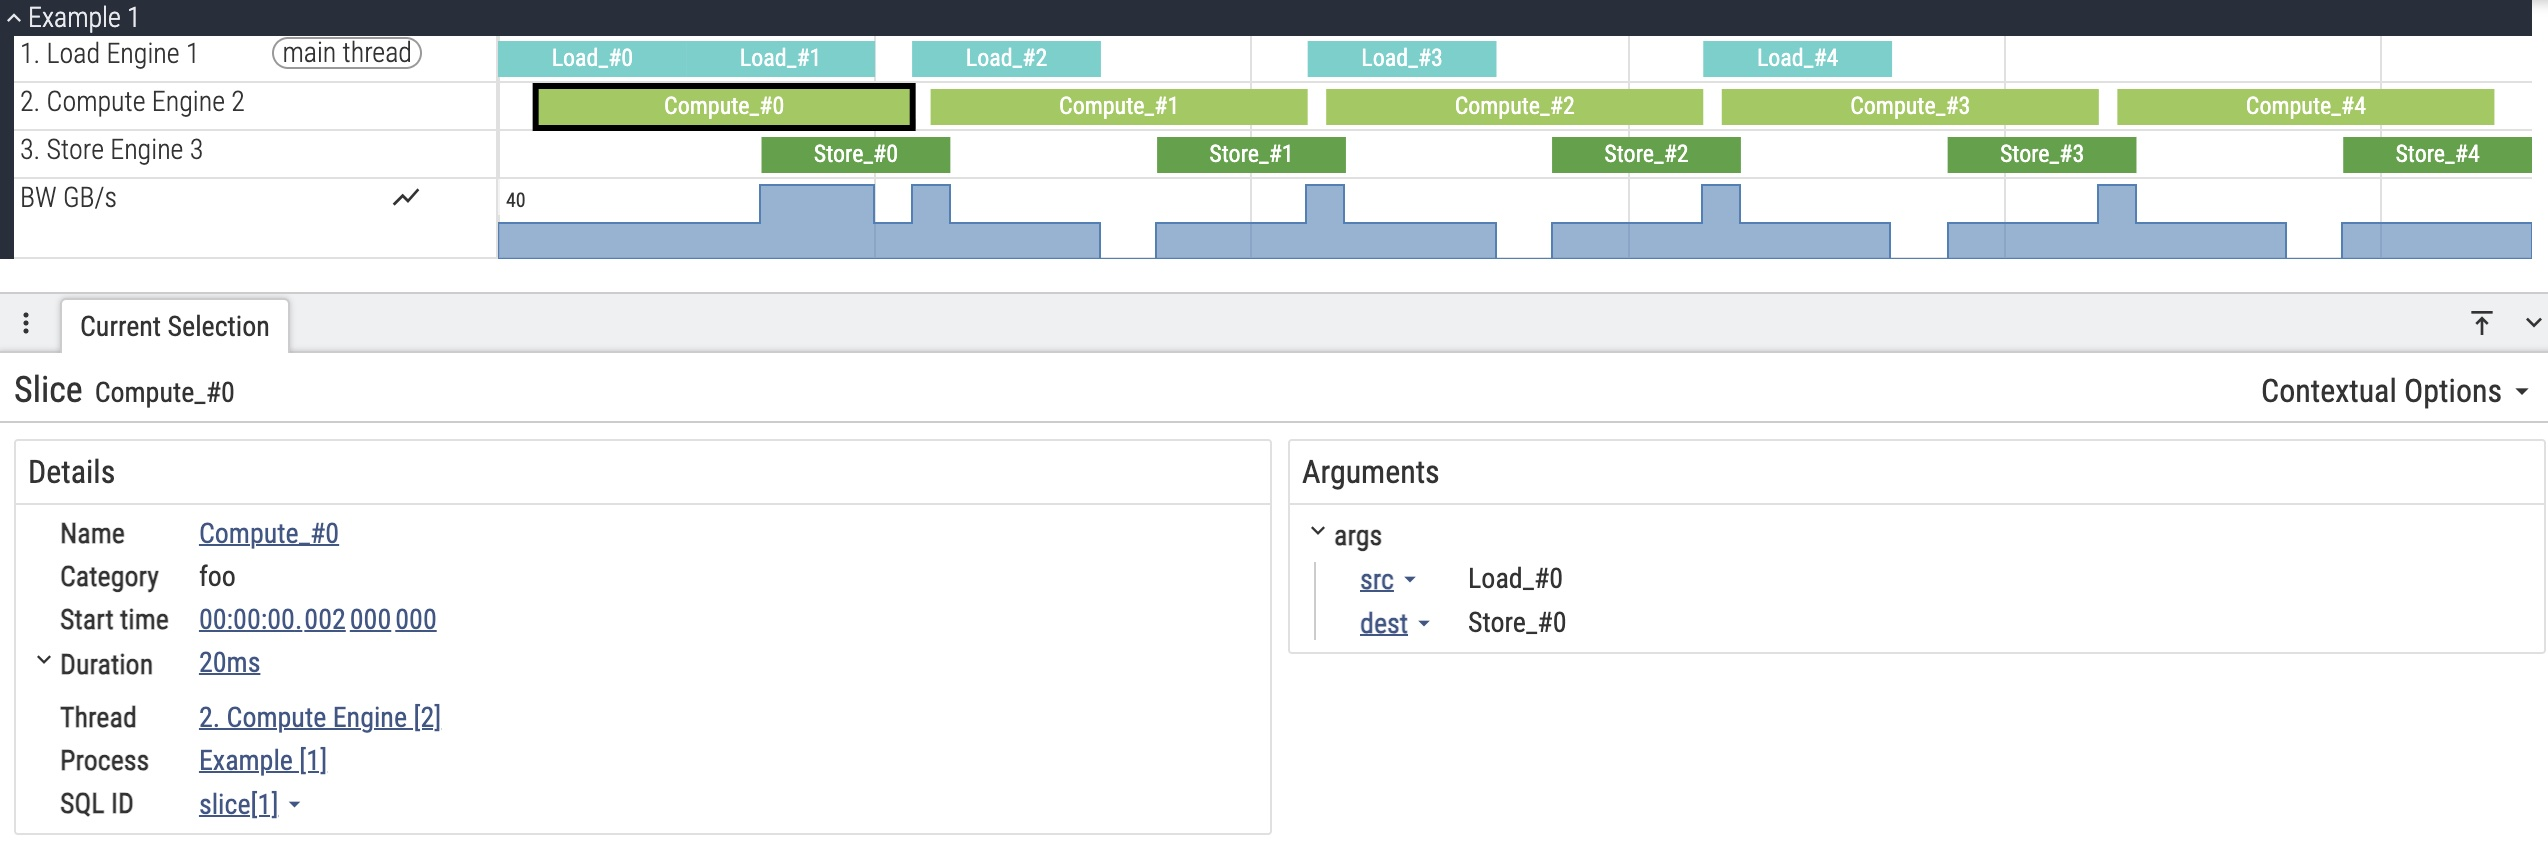
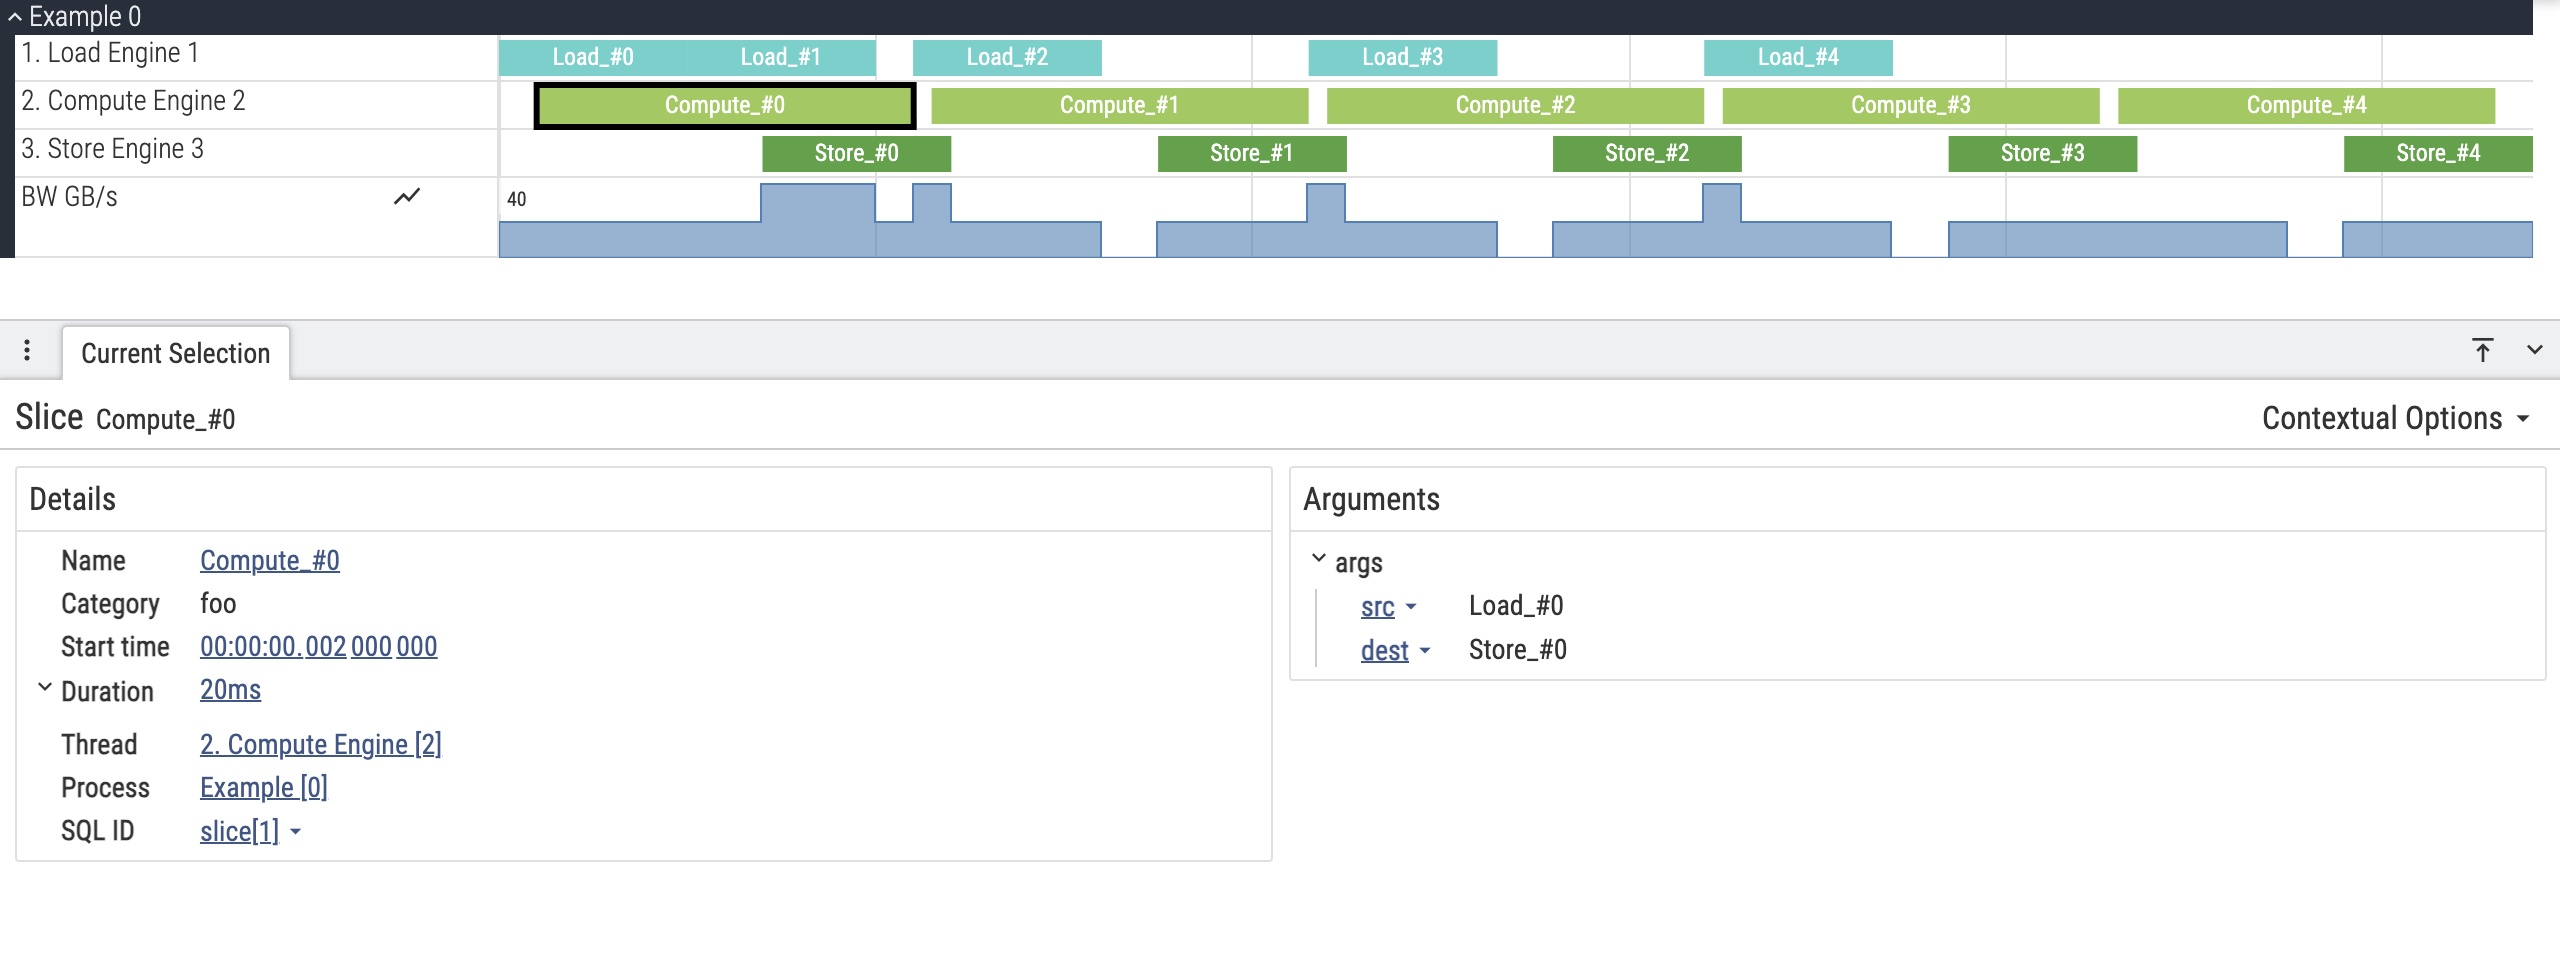
fix

diff --git a/blog/20251123-simulating-time-chrome-tracing-json/index.html b/blog/20251123-simulating-time-chrome-tracing-json/index.html
@@ -33,14 +33,6 @@
             margin: 2.5cm 2.5cm 2.5cm 2.5cm;
         }
 
-        /* Responsive handling */
-        @media screen and (max-width: 1023px) {
-            body.quarkdown-plain > main {
-                min-width: 80%;
-                max-width: 100%;
-            }
-        }
-
         body.quarkdown-slides .reveal {
             width: 8.5in;
             height: 11.0in;
@@ -169,7 +161,7 @@ You can read the full specification here: <a href="https://docs.google.com/docum
         { &quot;name&quot;: &quot;BW&quot;, &quot;ph&quot;: &quot;C&quot;, &quot;ts&quot;: 74000, &quot;pid&quot;: 0, &quot;tid&quot;: 4, &quot;args&quot;: { &quot;GB/s&quot;: 0 } },
 
         { &quot;name&quot;: &quot;BW&quot;, &quot;ph&quot;: &quot;C&quot;, &quot;ts&quot;: 77000, &quot;pid&quot;: 0, &quot;tid&quot;: 4, &quot;args&quot;: { &quot;GB/s&quot;: 20 } },
-        { &quot;name&quot;: &quot;BW&quot;, &quot;ph&quot;: &quot;C&quot;, &quot;ts&quot;: 85000, &quot;pid&quot;: 0, &quot;tid&quot;: 4, &quot;args&quot;: { &quot;GB/s&quot;: 40 } },
+        { &quot;name&quot;: &quot;BW&quot;, &quot;ph&quot;: &quot;C&quot;, &quot;ts&quot;: 85000, &quot;pid&quot;: 0, &quot;tid&quot;: 4, &quot;args&quot;: { &quot;GB/s&quot;: 20 } },
         { &quot;name&quot;: &quot;BW&quot;, &quot;ph&quot;: &quot;C&quot;, &quot;ts&quot;: 87000, &quot;pid&quot;: 0, &quot;tid&quot;: 4, &quot;args&quot;: { &quot;GB/s&quot;: 20 } },
         { &quot;name&quot;: &quot;BW&quot;, &quot;ph&quot;: &quot;C&quot;, &quot;ts&quot;: 95000, &quot;pid&quot;: 0, &quot;tid&quot;: 4, &quot;args&quot;: { &quot;GB/s&quot;: 0 } },
 
@@ -177,7 +169,7 @@ You can read the full specification here: <a href="https://docs.google.com/docum
         { &quot;name&quot;: &quot;BW&quot;, &quot;ph&quot;: &quot;C&quot;, &quot;ts&quot;: 106000, &quot;pid&quot;: 0, &quot;tid&quot;: 4, &quot;args&quot;: { &quot;GB/s&quot;: 20 } },
         { &quot;name&quot;: &quot;BW&quot;, &quot;ph&quot;: &quot;C&quot;, &quot;ts&quot;: 108000, &quot;pid&quot;: 0, &quot;tid&quot;: 4, &quot;args&quot;: { &quot;GB/s&quot;: 20 } }
     ]
-}</code></pre><h3 id="trace-event-parameters">Trace Event Parameters</h3><p>Each trace event has the following parameters:</p><ul><li><strong>name</strong>: The name of the event</li><li><strong>cat</strong>: Category. While not visually distinct, this is useful for filtering events with search.</li><li><strong>ph</strong>: Phase, which determines how to interpret this event (There are five common events)<ul><li><strong>&ldquo;X&rdquo;</strong>: Complete event with duration</li><li><strong>&ldquo;M&rdquo;</strong>: Metadata event</li><li><strong>&ldquo;C&rdquo;</strong>: Counter event</li><li><strong>&ldquo;B&rdquo;</strong>: Marks the beginning of an event.</li><li><strong>&ldquo;E&rdquo;</strong>: Marks the end of an event.</li></ul></li><li><strong>dur</strong>: Duration, the time spent on this event (used with phase &ldquo;X&rdquo;)</li><li><strong>ts</strong>: Timestamp in nanoseconds (ns).</li><li><strong>pid</strong>: Process ID</li><li><strong>tid</strong>: Thread ID</li><li><strong>args</strong>: Additional arguments/metadata for the event</li></ul><h3 id="structure-overview">Structure Overview</h3><p>The trace events structure is organized from top level down as: process → thread → event.
+}</code></pre><h3 id="trace-event-parameters">Trace Event Parameters</h3><p>Each trace event has the following parameters:</p><ul><li><strong>name</strong>: The name of the event</li><li><strong>cat</strong>: Category. While not visually distinct, this is useful for filtering events with search.</li><li><strong>ph</strong>: Phase, which determines how to interpret this event (There are five common events)<ul><li><strong>&ldquo;X&rdquo;</strong>: Complete event with duration</li><li><strong>&ldquo;M&rdquo;</strong>: Metadata event</li><li><strong>&ldquo;C&rdquo;</strong>: Counter event</li><li><strong>&ldquo;B&rdquo;</strong>: Marks the beginning of an event.</li><li><strong>&ldquo;E&rdquo;</strong>: Marks the end of an event.</li></ul></li><li><strong>dur</strong>: Duration, the time spent on this event (used with phase &ldquo;X&rdquo;)</li><li><strong>ts</strong>: Timestamp in microseconds (µs).</li><li><strong>pid</strong>: Process ID</li><li><strong>tid</strong>: Thread ID</li><li><strong>args</strong>: Additional arguments/metadata for the event</li></ul><h3 id="structure-overview">Structure Overview</h3><p>The trace events structure is organized from top level down as: process → thread → event.
 A process can be thought of as the current <span class="codespan-content"><code>Example</code></span>, while threads represent the vertical lanes
 within that process.
 In our example, we have threads for &ldquo;1. Load Engine&rdquo;, &ldquo;2. Compute Engine&rdquo;, &ldquo;3. Store Engine&rdquo;, and &ldquo;4. Memory Bandwidth&rdquo;.</p><p>Here&rsquo;s a simple structural diagram for easier understanding:</p><figure><img src="media/structure@701658832.png" alt="Structure diagram" style="width: 100.0%;" /></figure><h3 id="initializing-process-and-threads">Initializing Process and Threads</h3><p>First, we need to initialize the processes and threads. Using <span class="codespan-content"><code>ph: &quot;M&quot;</code></span>, which stands for &ldquo;metadata&rdquo;.
@@ -218,12 +210,13 @@ In the chart, we set the &ldquo;GB/s&rdquo; parameter to 40 at <span class="code
   ]
 }</code></pre><p>The display effect is shown below. You can place two differently named events with overlapping times on the same <span class="codespan-content"><code>tid</code></span>,
 and both events will be displayed in the same area stacked vertically, rather than being separated.</p><figure><img src="media/nested@1545052838.jpg" alt="Nested events example" style="width: 100.0%;" /></figure><p>Good! 🎉 Until now, we cover all the basic elements for expressing trace events. I think it&rsquo;s far
-enough for most of the scenarios.</p><h2 id="pitfalls">Pitfalls</h2><p>There are some traps when using trace events that you should be aware of:</p><ol><li><p><strong>Time Unit Configuration</strong>: All time settings use nanoseconds (ns) as the unit. For the original <span class="codespan-content"><code>chrome://tracing</code></span>,
-you can force the <strong>display</strong> of event details to show nanoseconds by setting <span class="codespan-content"><code>&quot;displayTimeUnit&quot;: &quot;ns&quot;</code></span>.
-However, the timeline axis and other displays will still use milliseconds (ms), not nanoseconds.
-Therefore, when generating this data, you must use nanoseconds as the data standard, but be aware that
+enough for most of the scenarios.</p><h2 id="pitfalls">Pitfalls</h2><p>There are some traps when using trace events that you should be aware of:</p><ol><li><p><strong>Time Unit Configuration</strong>: <strong>All time settings use microseconds (µs) as the unit.</strong> For the original <span class="codespan-content"><code>chrome://tracing</code></span>,
+you can force the <strong>display</strong> of event details to show nanoseconds (ns) by setting <span class="codespan-content"><code>&quot;displayTimeUnit&quot;: &quot;ns&quot;</code></span>.
+However, the timeline axis and other displays will use milliseconds (ms) 🤯, neither nanoseconds nor microseconds.
+Therefore, when generating this data, you must use microseconds as the data standard, but be aware that
 the display uses milliseconds. Even if you set <span class="codespan-content"><code>&quot;displayTimeUnit&quot;: &quot;ns&quot;</code></span>, it only changes the internal
-information shown when you click on an event, not the external display.</p></li><li><p><strong>Time Normalization</strong>: The first <span class="codespan-content"><code>ts</code></span> value will be normalized to 0. Therefore, even if you set
+information shown when you click on an event, not the external display. This is definitely one of the
+most confusing design I&rsquo;ve encountered.</p></li><li><p><strong>Time Normalization</strong>: The first <span class="codespan-content"><code>ts</code></span> value will be normalized to 0. Therefore, even if you set
 the first event&rsquo;s <span class="codespan-content"><code>ts</code></span> to 100, the display will still show it starting at 0. This is because the trace viewer
 was originally designed for use cases like web page operations and Android tracing, where timestamps often
 start at very high values. The leading empty space would be meaningless.</p></li></ol><hr /><h2 id="further-reading">Further Reading</h2><ul><li><a href="https://docs.google.com/document/d/1CvAClvFfyA5R-PhYUmn5OOQtYMH4h6I0nSsKchNAySU/preview">Trace Event Format Specification</a> - The official Google document detailing the complete trace event format</li><li><a href="https://www.chromium.org/developers/how-tos/trace-event-profiling-tool/">Chrome Tracing Documentation</a> - Chromium&rsquo;s official trace viewer website</li><li><a href="https://perfetto.dev/docs/">Perfetto Documentation</a> - The next-generation trace viewer tool</li></ul>
